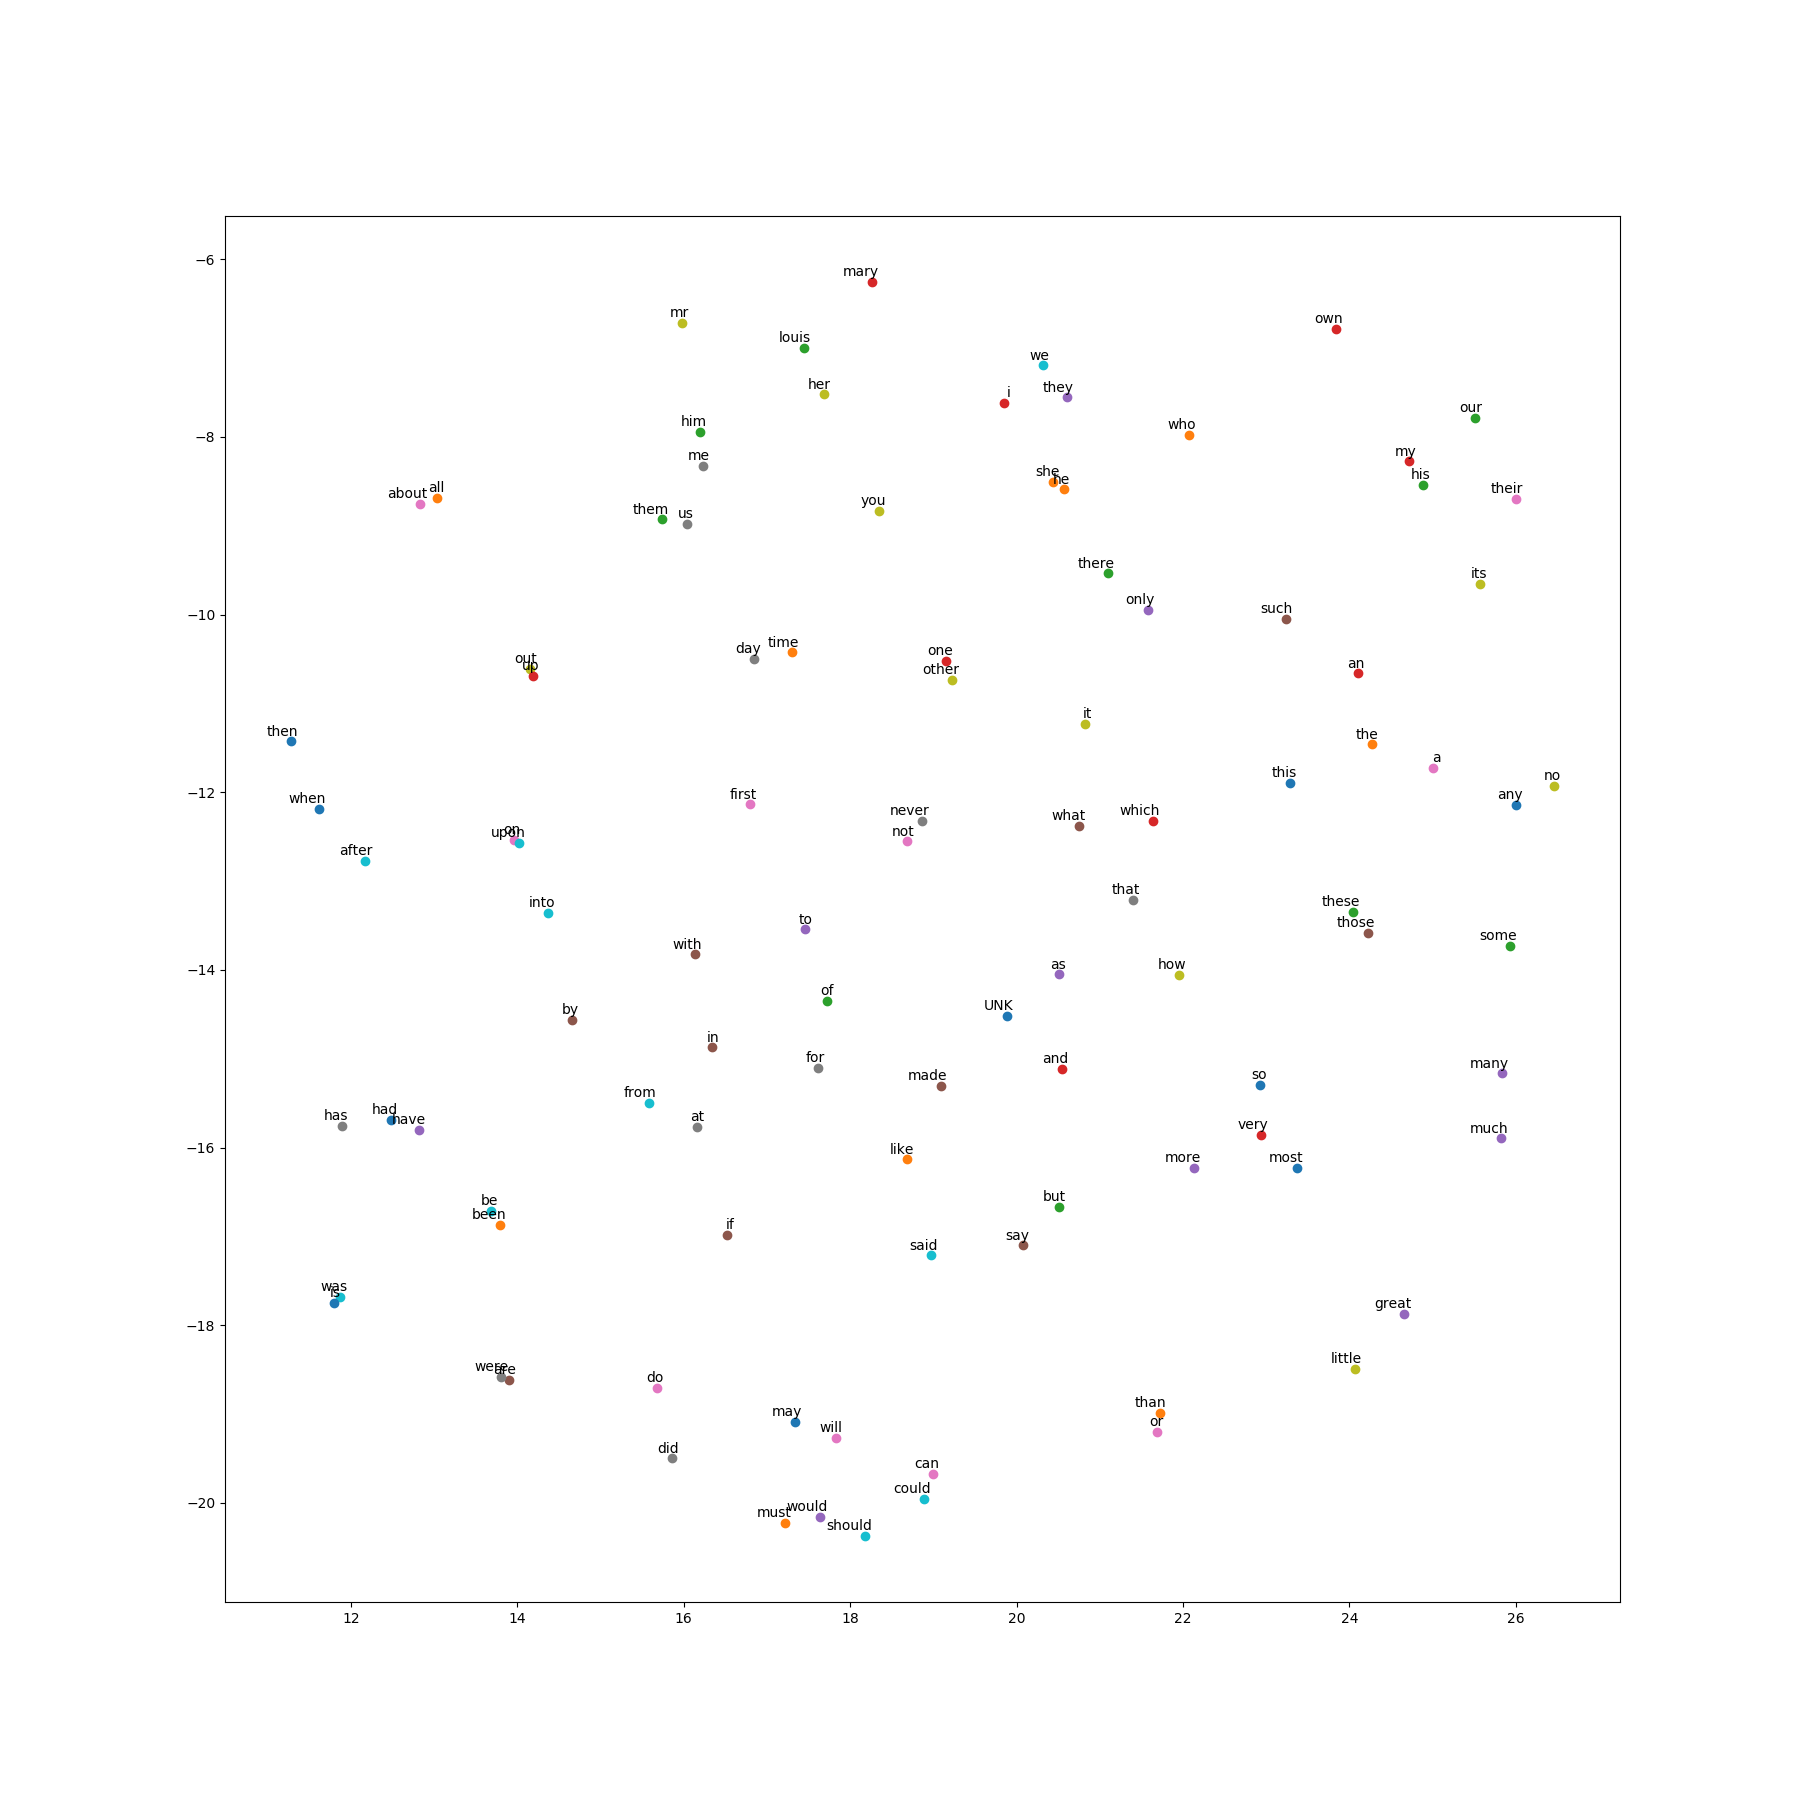
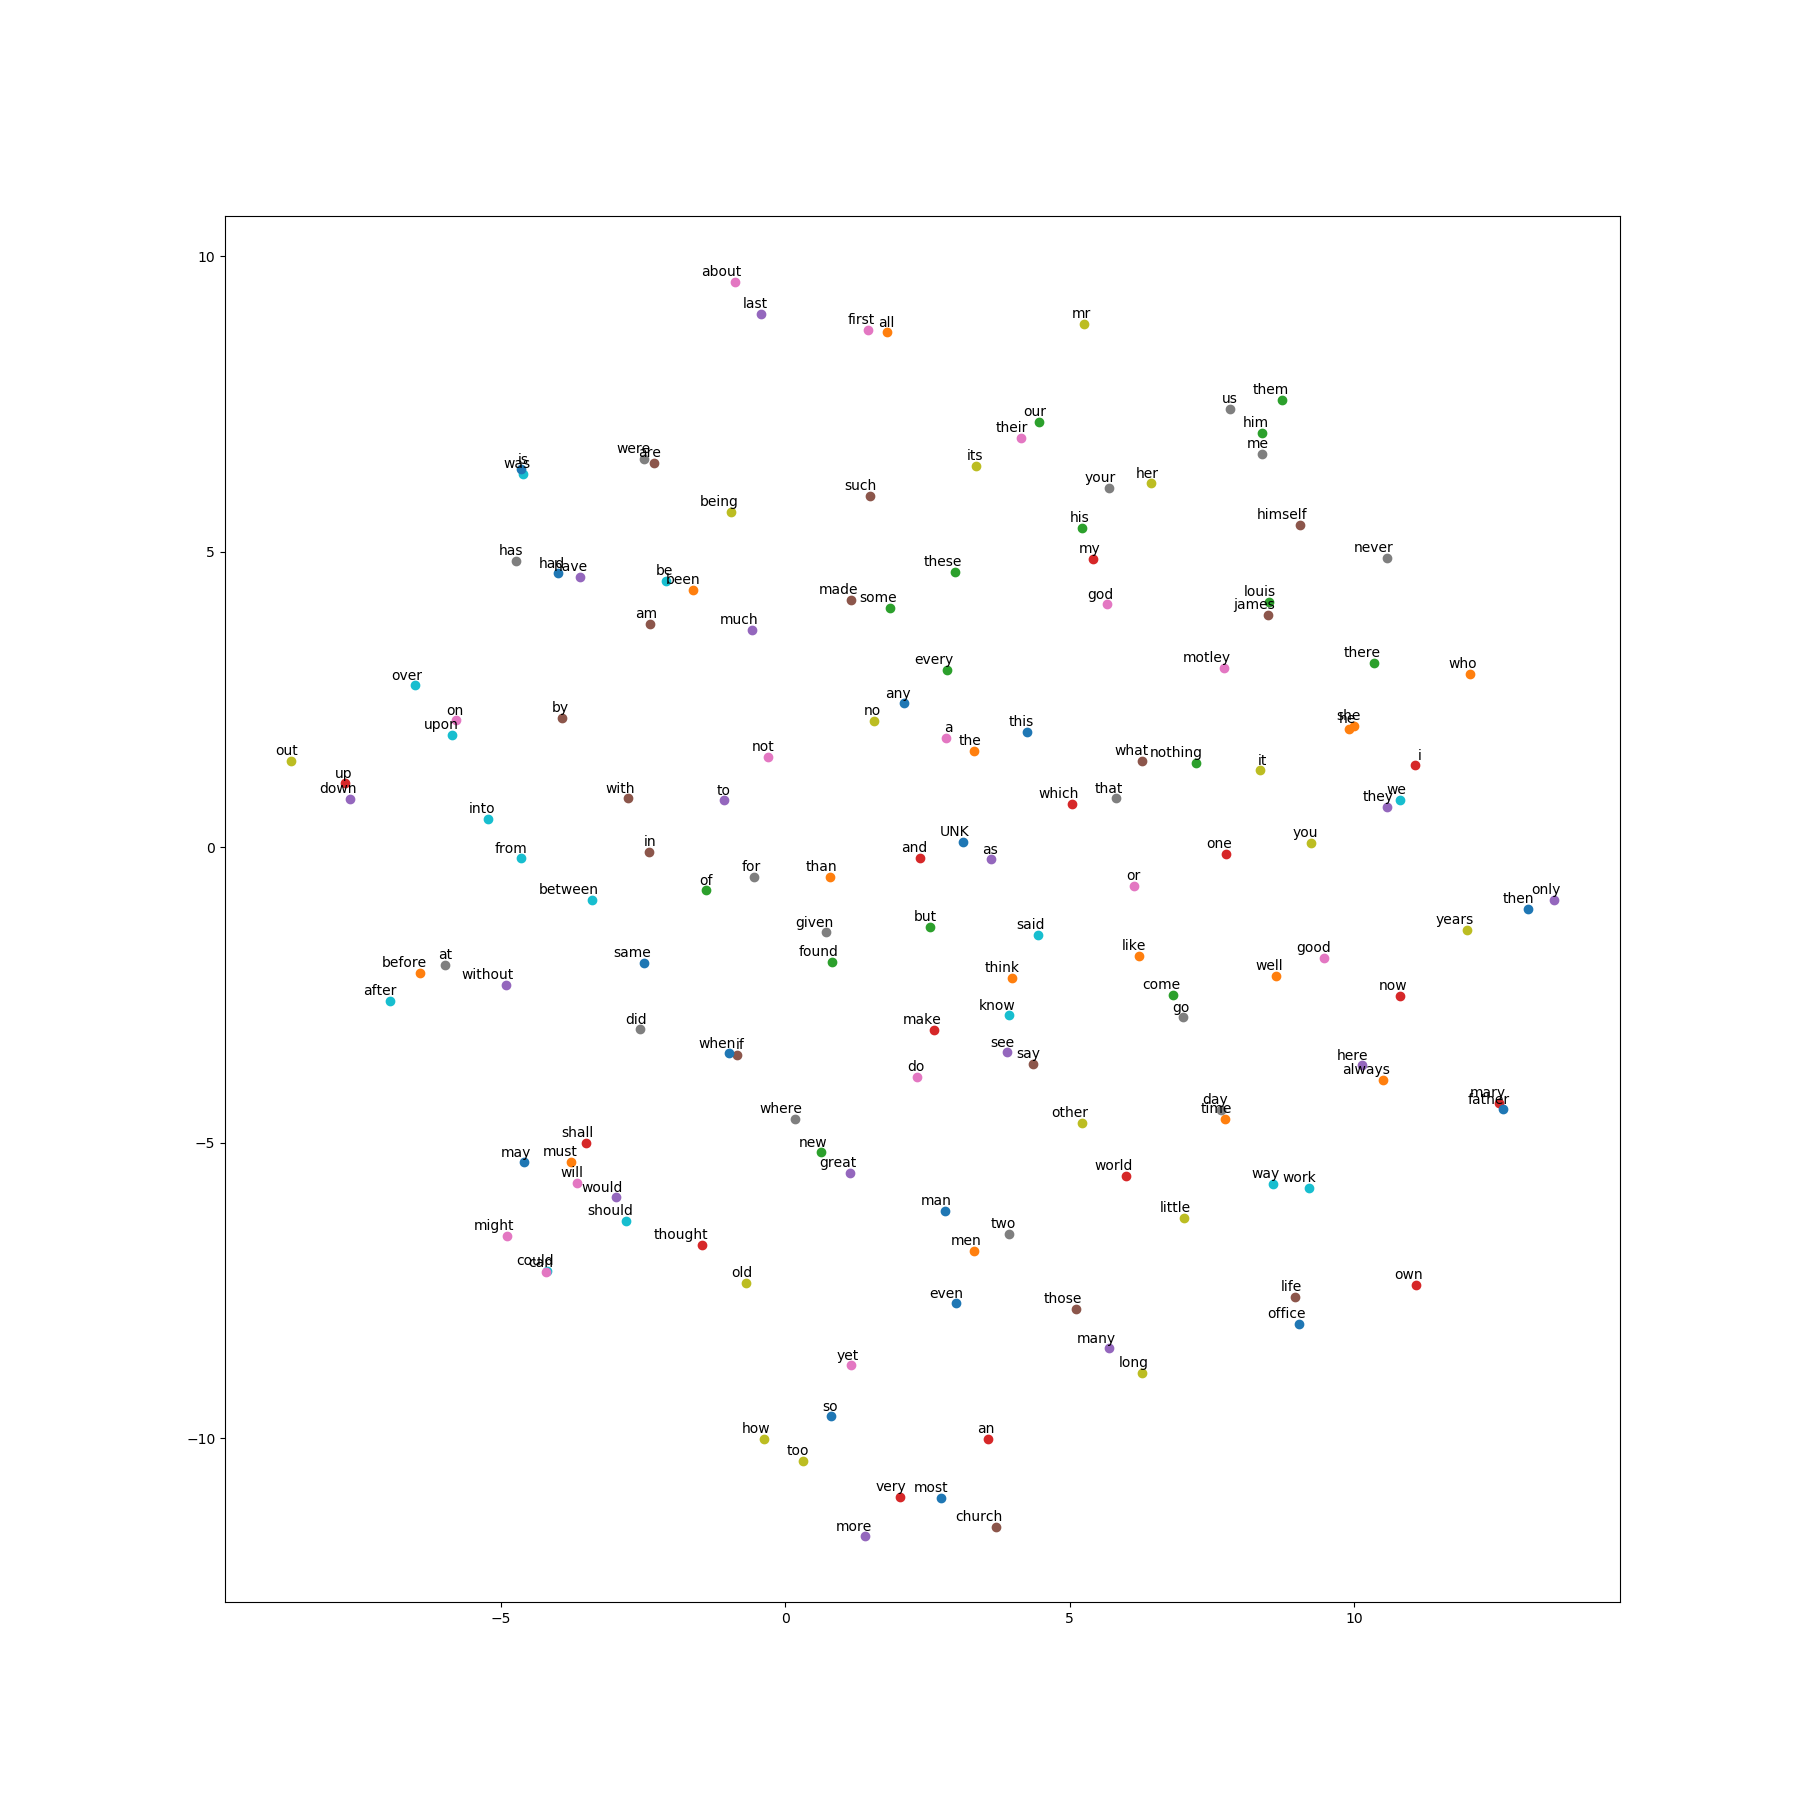
Save&load Word2Vec model

diff --git a/mylearn/pratice/Word2Vec/loadModel.py b/mylearn/pratice/Word2Vec/loadModel.py
@@ -231,47 +231,18 @@ with graph.as_default():
 
 
 #the run time
-num_steps = 100001
+num_steps = 10001
+re_embedding = normalized_embeddings
 with tf.Session(graph=graph) as session:
     init.run()
-    print("Initialized")
-
-    average_loss = 0
-    for step in range(num_steps):
-        batch_inputs, batch_labels = generate_batch(
-            batch_size, num_skips, skip_window
-        )
-        feed_dict = {train_inputs: batch_inputs, train_labels: batch_labels}
-
-        _, loss_val = session.run([optimizer, loss], feed_dict=feed_dict)
-        average_loss += loss_val
-
-        if step % 2000 == 0:
-            if step > 0:
-                average_loss /= 2000
-            print("Average loss at step ", step, ":", average_loss)
-            average_loss = 0
-
-        if step % 10000 == 0:
-            sim = similarity.eval()
-            for i in range(valid_size):
-                valid_word = reverse_dictionary[valid_examples[i]]
-                top_k = 8
-                nearest = (-sim[i,:]).argsort()[1:top_k+1]
-                log_str = "Nearest to % s:" % valid_word
-
-                for k in range(top_k):
-                    close_word = reverse_dictionary[nearest[k]]
-                    log_str = "%s %s," % (log_str, close_word)
-                print(log_str)
-    final_embeddings = normalized_embeddings.eval()
-
-    ## save the model
     saver = tf.train.Saver()
-    saver.save(sess=session, save_path="Model/model.ckpt")
-
-
-
+    saver.restore(session, "Model/model.ckpt")
+    batch_inputs, batch_labels = generate_batch(
+        batch_size, num_skips, skip_window
+    )
+    feed_dict = {train_inputs: batch_inputs, train_labels: batch_labels}
+    print(session.run(loss, feed_dict=feed_dict))
+    final_embeddings = normalized_embeddings.eval()
 #this is the plot function
 def plot_with_labels(low_dim_embs, labels, filename = 'tsne.png'):
     assert low_dim_embs.shape[0] >= len(labels), "More labels than embeddings"
